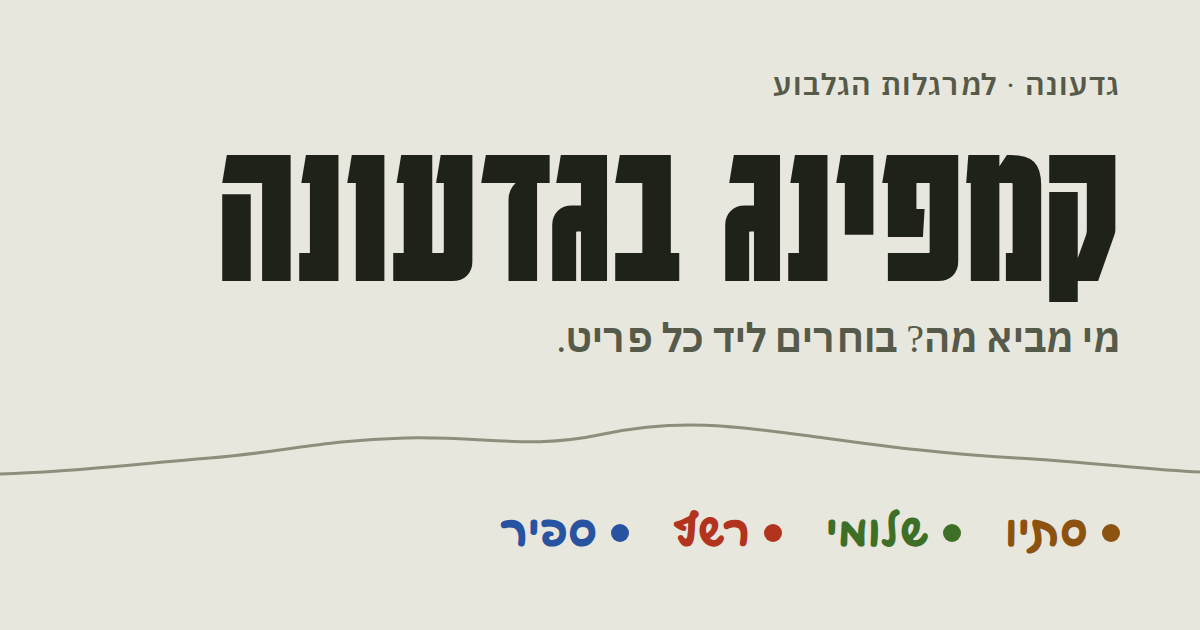
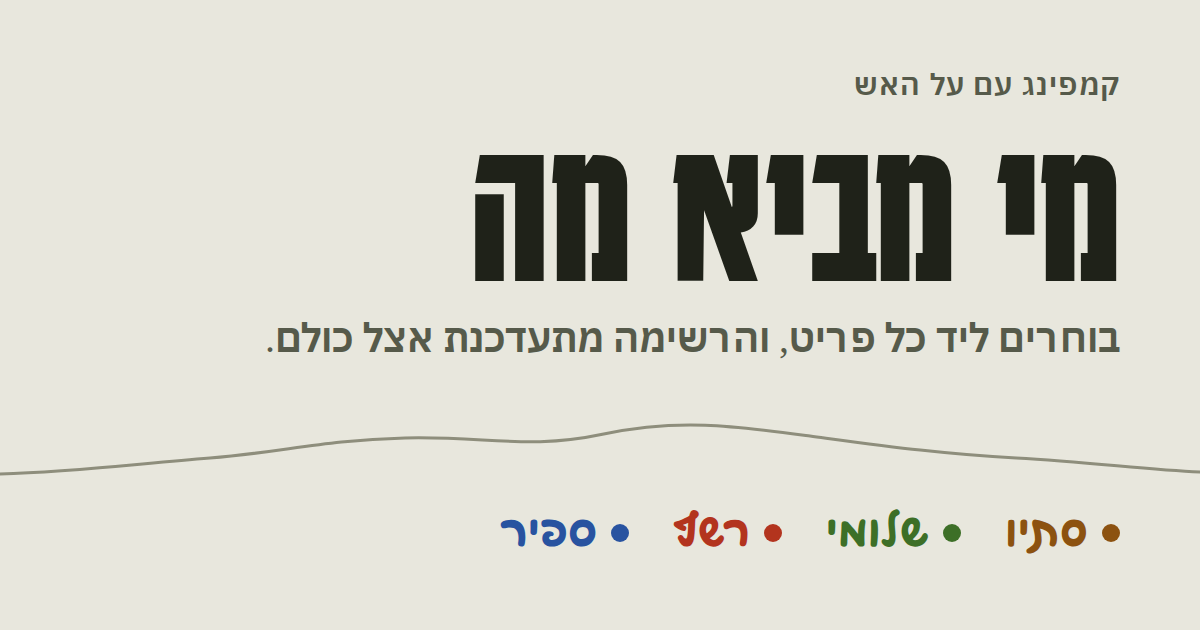
Make the list location-neutral
The trip location is not decided yet, so the title, header, link preview
(tags and og.png), WhatsApp summary, README and local storage keys no
longer name a place. Preview links point at the repo's new name, camping.

Claude-Session: https://claude.ai/code/session_01Wz62drDxiR3eqGucWdNSdm

Changed region(s): [[0.185, 0.2413, 0.9558, 0.4825], [0.2158, 0.5127, 0.925, 0.573], [0.6475, 0.1206, 0.9558, 0.1508]]

diff --git a/index.html b/index.html
@@ -3,17 +3,17 @@
 <head>
 <meta charset="utf-8">
 <meta name="viewport" content="width=device-width, initial-scale=1">
-<title>קמפינג בגדעונה</title>
-<meta name="description" content="מי מביא מה לקמפינג בגדעונה: בוחרים ליד כל פריט מי מביא אותו, והרשימה מתעדכנת אצל כולם.">
+<title>מי מביא מה לקמפינג</title>
+<meta name="description" content="מי מביא מה לקמפינג: בוחרים ליד כל פריט מי מביא אותו, והרשימה מתעדכנת אצל כולם.">
 <meta property="og:type" content="website">
 <meta property="og:locale" content="he_IL">
-<meta property="og:title" content="קמפינג בגדעונה">
-<meta property="og:description" content="מי מביא מה: בוחרים ליד כל פריט מי מביא אותו, והרשימה מתעדכנת אצל כולם.">
-<meta property="og:url" content="https://stavzaki-star.github.io/capming-gidona/">
-<meta property="og:image" content="https://stavzaki-star.github.io/capming-gidona/og.png">
+<meta property="og:title" content="מי מביא מה לקמפינג">
+<meta property="og:description" content="בוחרים ליד כל פריט מי מביא אותו, והרשימה מתעדכנת אצל כולם.">
+<meta property="og:url" content="https://stavzaki-star.github.io/camping/">
+<meta property="og:image" content="https://stavzaki-star.github.io/camping/og.png">
 <meta property="og:image:width" content="1200">
 <meta property="og:image:height" content="630">
-<meta property="og:image:alt" content="קמפינג בגדעונה: מי מביא מה">
+<meta property="og:image:alt" content="מי מביא מה לקמפינג">
 <meta name="twitter:card" content="summary_large_image">
 <meta name="theme-color" content="#E8E7DD" media="(prefers-color-scheme: light)">
 <meta name="theme-color" content="#13150F" media="(prefers-color-scheme: dark)">
@@ -454,9 +454,9 @@ h1 {
 <body>
 <main class="page" id="app">
   <header class="top">
-    <p class="eyebrow">גדעונה · למרגלות הגלבוע</p>
-    <h1>קמפינג בגדעונה</h1>
-    <p class="lede">על האש ליד המעיין, ארבעה חבר׳ה. ליד כל פריט בוחרים מי מביא אותו, ומסמנים ✓ כשהוא כבר ארוז. כל שינוי מופיע מיד אצל כולם.</p>
+    <p class="eyebrow">קמפינג עם על האש</p>
+    <h1>מי מביא מה</h1>
+    <p class="lede">ארבעה חבר׳ה, רשימה אחת. ליד כל פריט בוחרים מי מביא אותו, ומסמנים ✓ כשהוא כבר ארוז. כל שינוי מופיע מיד אצל כולם.</p>
     <svg class="ridge" viewBox="0 0 640 30" preserveAspectRatio="none" aria-hidden="true" focusable="false">
       <path d="M0 27 C40 26 72 22 112 19 S172 10 216 9 S282 15 322 7 S392 3 432 8 S502 17 542 19 S612 25 640 26" fill="none" stroke="currentColor" stroke-width="1.5" stroke-linecap="round" vector-effect="non-scaling-stroke"/>
     </svg>

diff --git a/app.js b/app.js
@@ -64,7 +64,7 @@ const local = {
   }
 };
 
-const savedFilter = local.get("gidona.filter", "all");
+const savedFilter = local.get("camping.filter", "all");
 const state = {
   items: [],
   loaded: false,
@@ -404,7 +404,7 @@ function pageUrl() {
 function summary(short) {
   const items = sortItems(state.items);
   const line = (it) => `${it.done ? "✓" : "•"} ${it.name}${it.note && !short ? ` (${it.note})` : ""}`;
-  const out = ["*קמפינג בגדעונה: מי מביא מה*"];
+  const out = ["*קמפינג: מי מביא מה*"];
   for (const p of [...PEOPLE, { id: "all", name: "כל אחד מביא לעצמו" }]) {
     const mine = items.filter((it) => it.who === p.id);
     if (!mine.length) continue;
@@ -559,7 +559,7 @@ chipsEl.addEventListener("click", (e) => {
   if (!b || state.editing) return;
   const f = b.dataset.f;
   state.filter = state.filter === f && f !== "all" ? "all" : f;
-  local.set("gidona.filter", state.filter);
+  local.set("camping.filter", state.filter);
   render();
   const anchorTop = filtersAnchor.getBoundingClientRect().top + window.scrollY;
   if (window.scrollY > anchorTop) window.scrollTo({ top: anchorTop, behavior: reduceMotion ? "auto" : "smooth" });
@@ -599,7 +599,7 @@ window.addEventListener("offline", renderSync);
 /* ---------- personal list (this device only) ---------- */
 
 function wirePersonal() {
-  const key = "gidona.personal.v1";
+  const key = "camping.personal.v1";
   const saved = local.get(key, []);
   const checked = new Set(Array.isArray(saved) ? saved : []);
   for (const cb of document.querySelectorAll(".plist input[type=checkbox]")) {

diff --git a/README.md b/README.md
@@ -1,4 +1,4 @@
-# קמפינג בגדעונה
+# מי מביא מה לקמפינג
 
 רשימה משותפת של מי מביא מה. כל מי שיש לו את הקישור יכול לבחור, לסמן ולערוך, בלי שום התחברות.
 הדף מתארח ב-GitHub Pages והנתונים נשמרים ב-Firebase Firestore (בתוכנית החינמית).
